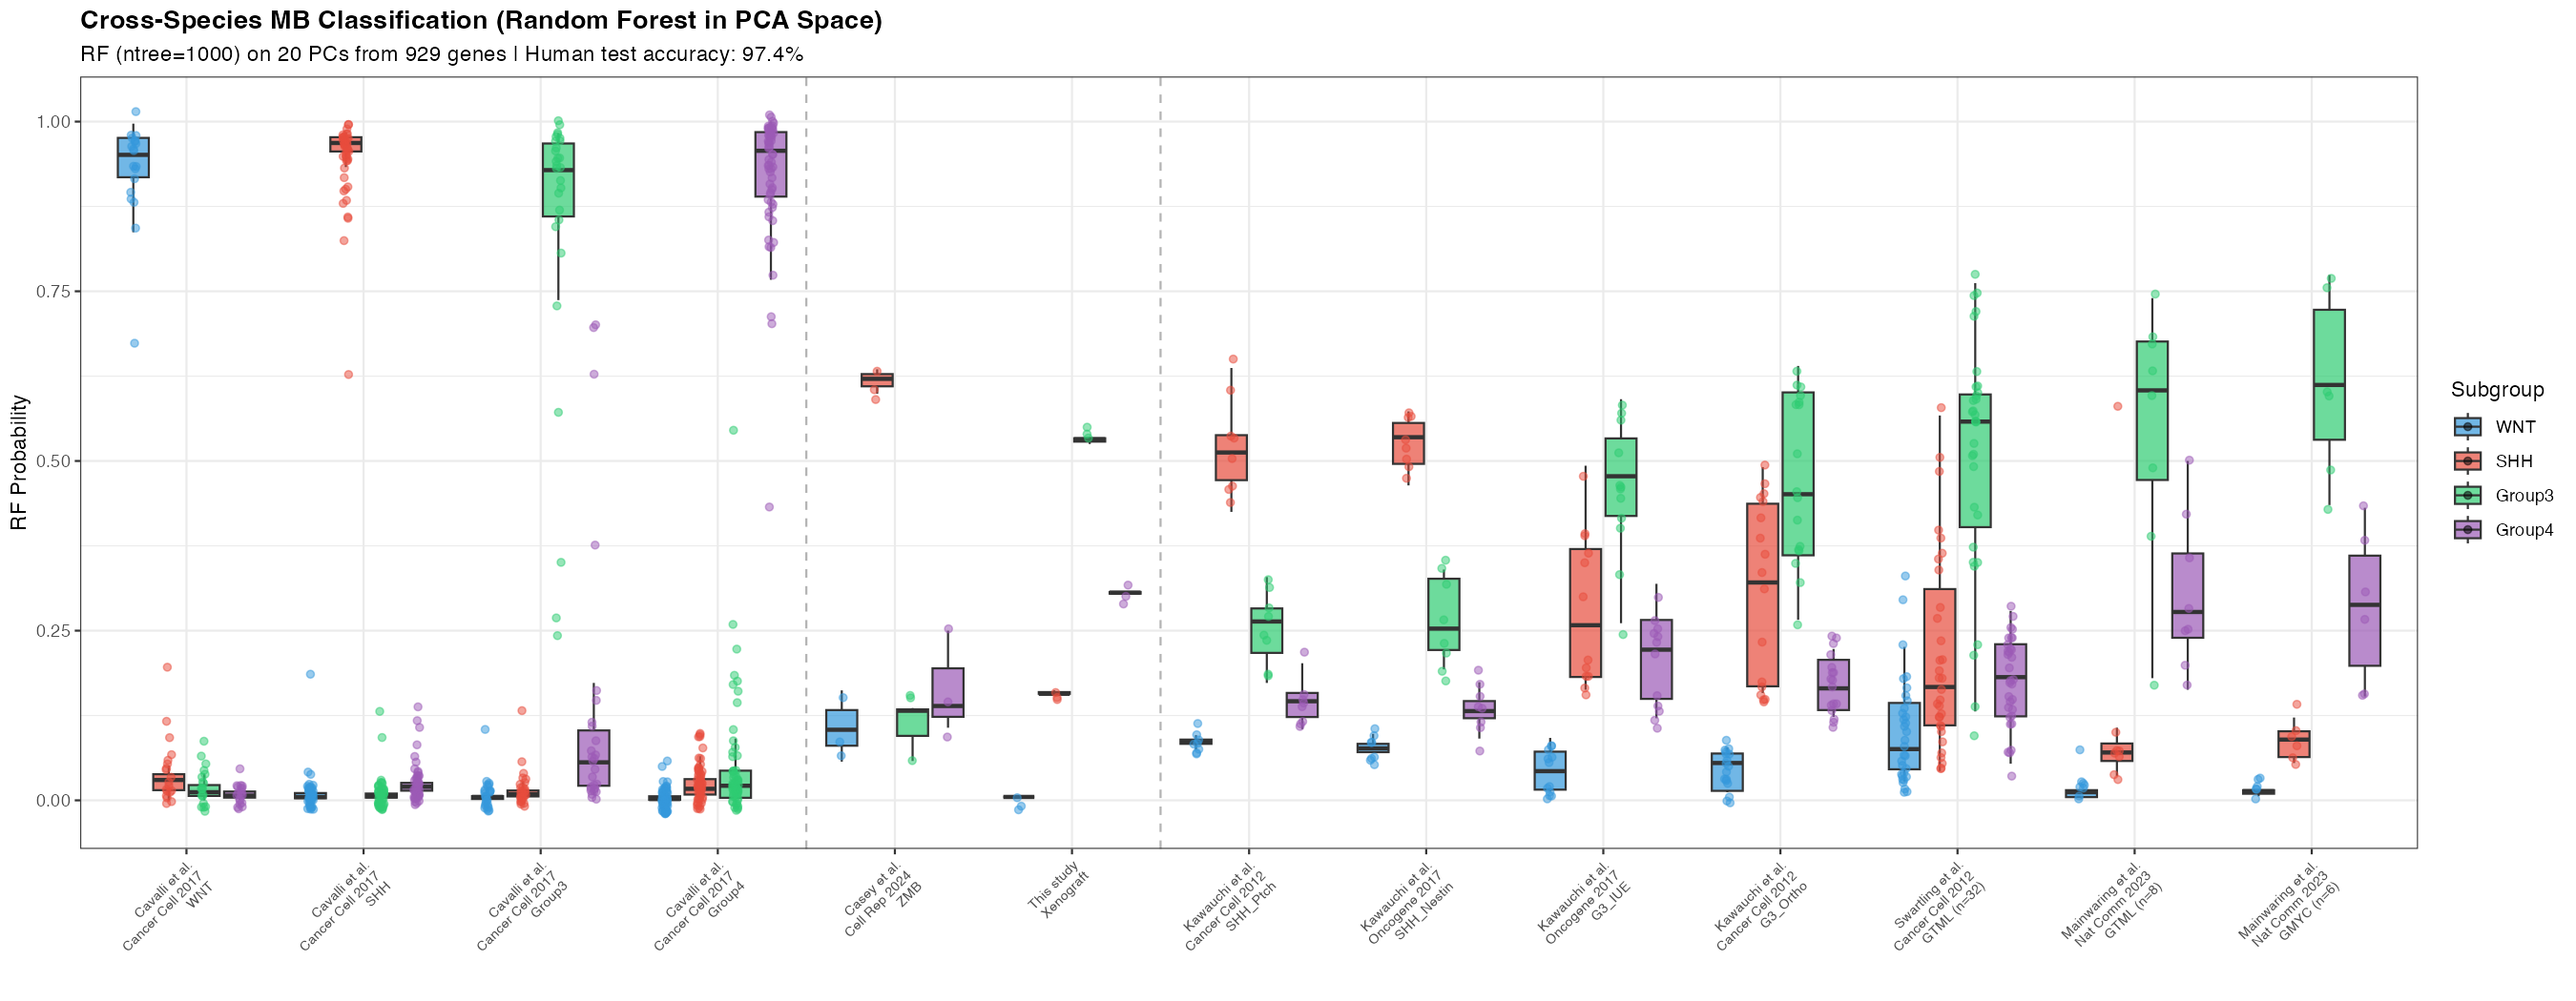
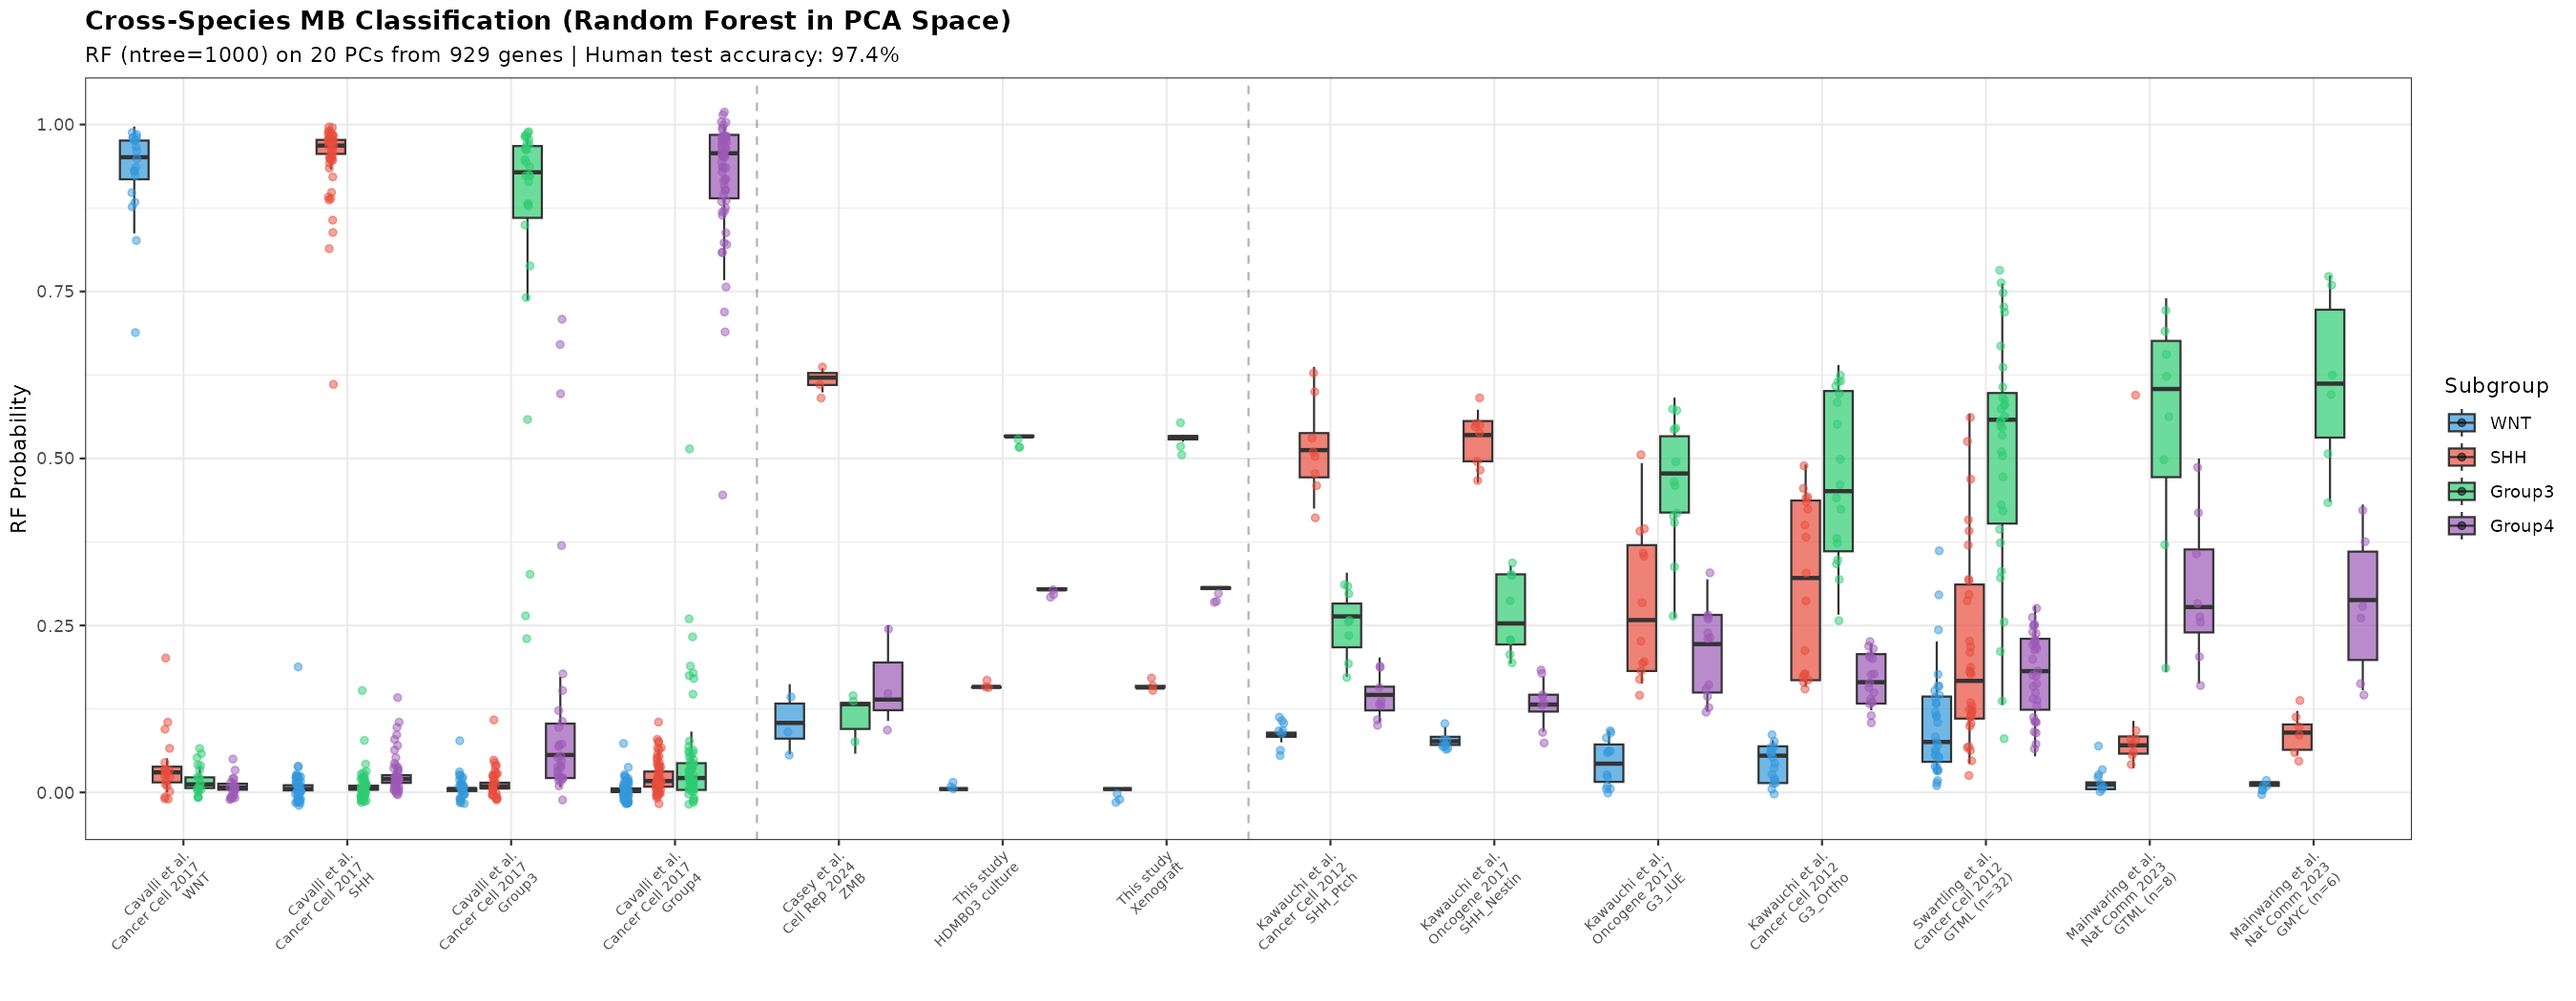
Include pre-graft HDMB03 culture samples in the cross-species classification
Add the three HDMB03 culture replicates (pre-graft) as a separate condition
alongside the avian xenografts in the boxplot and ternary plot. Pipeline
(gene selection, PCA, Random Forest, seed) unchanged; probabilities for all
previously included samples are identical.

diff --git a/README.md b/README.md
@@ -4,7 +4,7 @@ This repository contains code and data to classify animal model medulloblastoma 
 
 ## Overview
 
-We train a Random Forest classifier on human medulloblastoma samples (Cavalli et al., Cancer Cell 2017) using PCA coordinates, then project animal models (mouse, zebrafish, chicken xenografts) to classify them into one of four MB subgroups: WNT, SHH, Group3, or Group4.
+We train a Random Forest classifier on human medulloblastoma samples (Cavalli et al., Cancer Cell 2017) using PCA coordinates, then project animal models (mouse, zebrafish, chicken xenografts) and the HDMB03 cell line before grafting to classify them into one of four MB subgroups: WNT, SHH, Group3, or Group4.
 
 ## Datasets
 
@@ -15,7 +15,7 @@ We train a Random Forest classifier on human medulloblastoma samples (Cavalli et
 | **GSE36594** | Swartling et al., 2012 | Mouse | Affymetrix Mouse Exon 1.0 ST | GTML Group3 (n=32) |
 | **GSE139240** | Mainwaring et al., 2023 | Mouse | RNA-seq | GTML (n=8) + GMYC (n=6) Group3 |
 | **GSE242897** | Casey et al., 2024 | Zebrafish | RNA-seq | ptch1;tp53 SHH tumors (n=3) |
-| **HDMB03** | This study | Chicken | RNA-seq | HDMB03 xenografts (G3, n=3) |
+| **HDMB03** | This study | Chicken | RNA-seq | HDMB03 cells in culture (pre-graft, n=3) and avian xenografts (post-graft, n=3) |
 
 ### Mouse Group 3 Models (GTML/GMYC)
 Following Pöschl et al. (2014, *Acta Neuropathol*), GTML (Glt1-tTA::TRE-MYCN/Luc) is the **only mouse model** with a clear match to human Group 3 tumors in both AGDEX and k-means analyses. 84% of GTML tumors (27/32) cluster with human Group 3. GMYC (MYC-driven) uses the same Tet-OFF system and is also classified as Group 3.
@@ -48,7 +48,8 @@ Following Pöschl et al. (2014, *Acta Neuropathol*), GTML (Glt1-tTA::TRE-MYCN/Lu
 - **Mouse SHH models**: Correctly classified as SHH
 - **Mouse G3 models (IUE/Ortho)**: Mixed classification (cross-species limitation)
 - **GTML/GMYC models**: Forced Group3 annotation per Pöschl et al. 2014 (classifier predicts ~80% SHH)
-- **HDMB03 xenografts**: Classified as Group3 (expected for HDMB03 cell line)
+- **HDMB03 culture (pre-graft)**: Classified as Group3
+- **HDMB03 xenografts (post-graft)**: Classified as Group3, with subgroup probabilities indistinguishable from the pre-graft cells — the G3 identity of the cell line is maintained in the avian cerebellar environment
 
 ![Ternary Plot](figures/cross_species_ternary.png)
 
